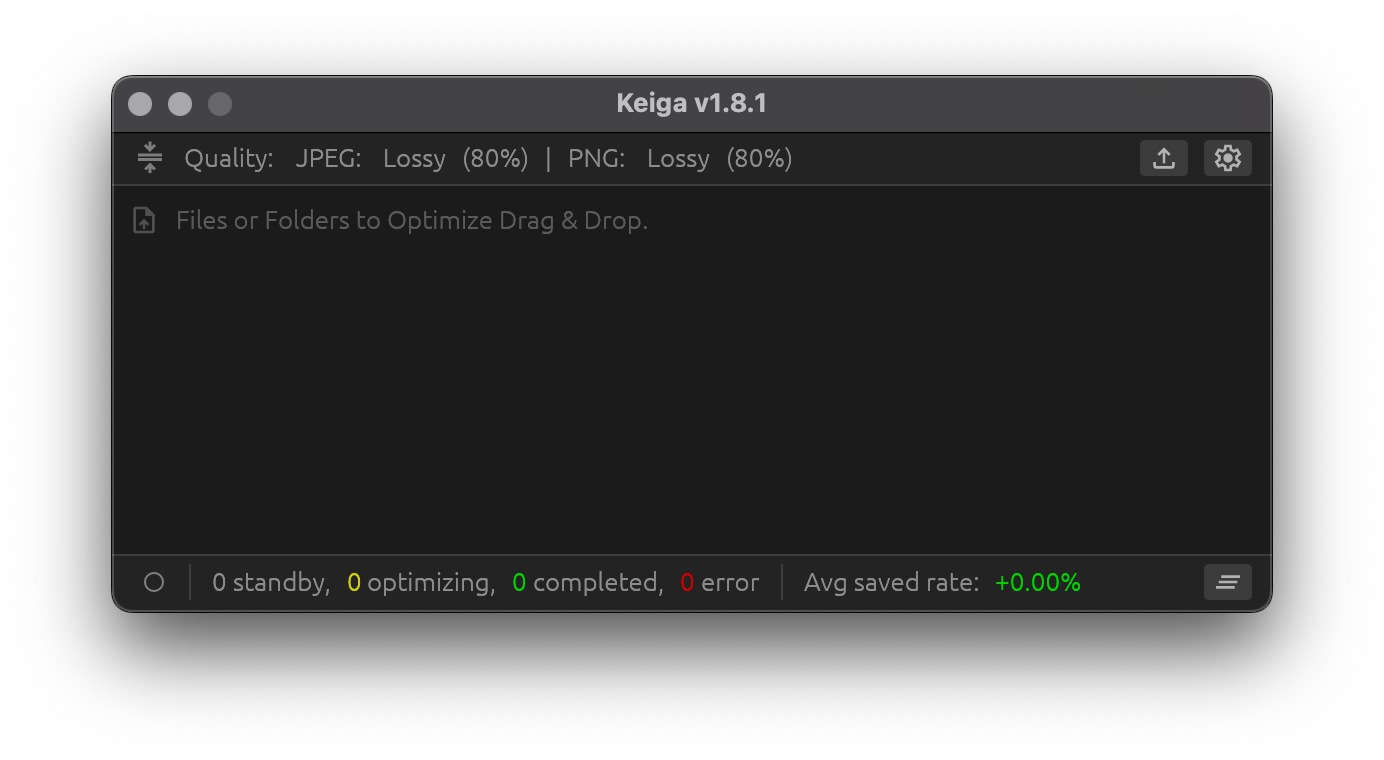
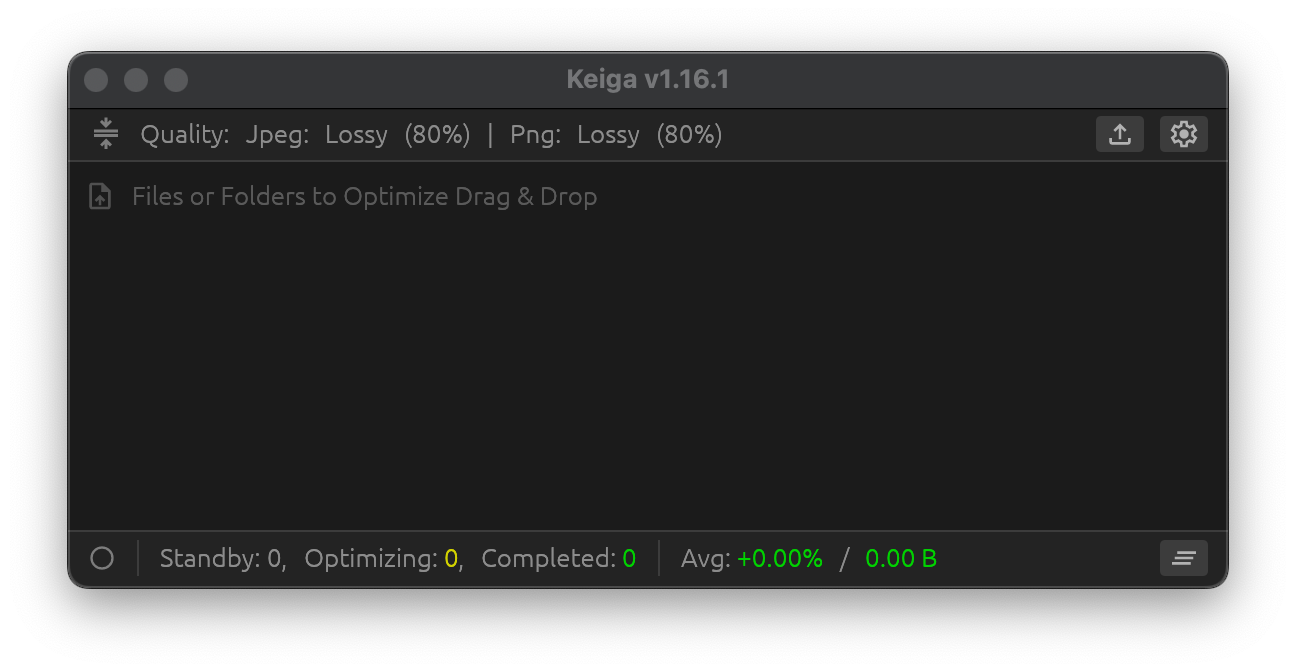
chore: README

Changed region(s): [[0.0309, 0.0625, 0.9568, 0.9375]]

diff --git a/README.md b/README.md
@@ -62,7 +62,7 @@ Rust の勉強がてら、自分用に Image Optimization ってことで、Keig
 | Canceled | キャンセル済み |
 | Error | 失敗（エラーコード付きのメッセージを表示） |
 
-下部バーは standby / optimizing / completed / error の件数と平均節約率です。completed にホバーすると optimized / no savings / skipped の内訳、左のアイコンにホバーすると最適化できたファイルの平均所要時間が出ます。JPEG と PNG が両方あるときは、形式ごとの平均も並びます。
+下部バーは standby / optimizing / completed の件数と、平均節約率・平均新サイズです。error は件数があるときだけ並びます。completed にホバーすると optimized / unchanged / skipped の内訳、optimizing にホバーすると（JPEG と PNG が両方あるとき）形式ごとの件数、左のアイコンにホバーすると最適化できたファイルの平均所要時間が出ます。平均節約率・平均新サイズも、JPEG と PNG が両方あるときは形式ごとの平均がホバーで出ます。
 
 ## Mouse & keyboard
 
